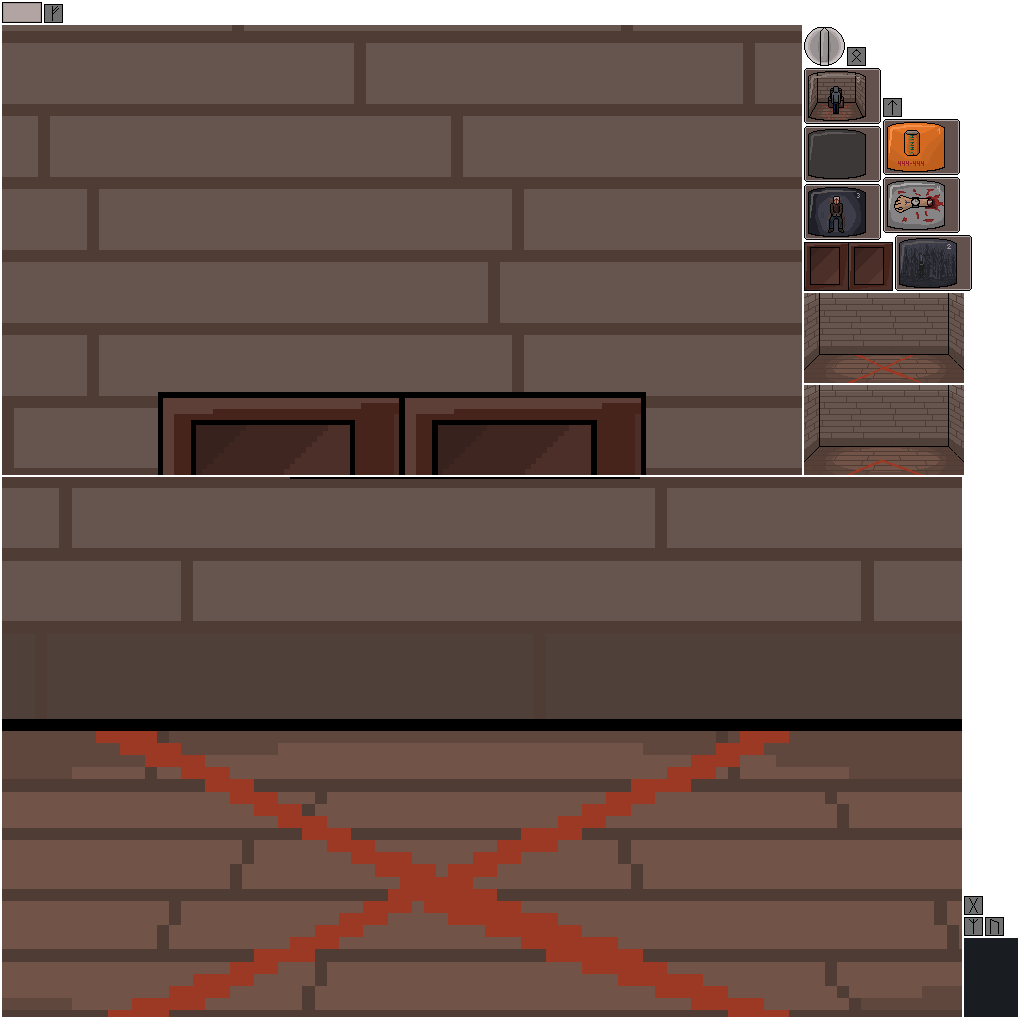
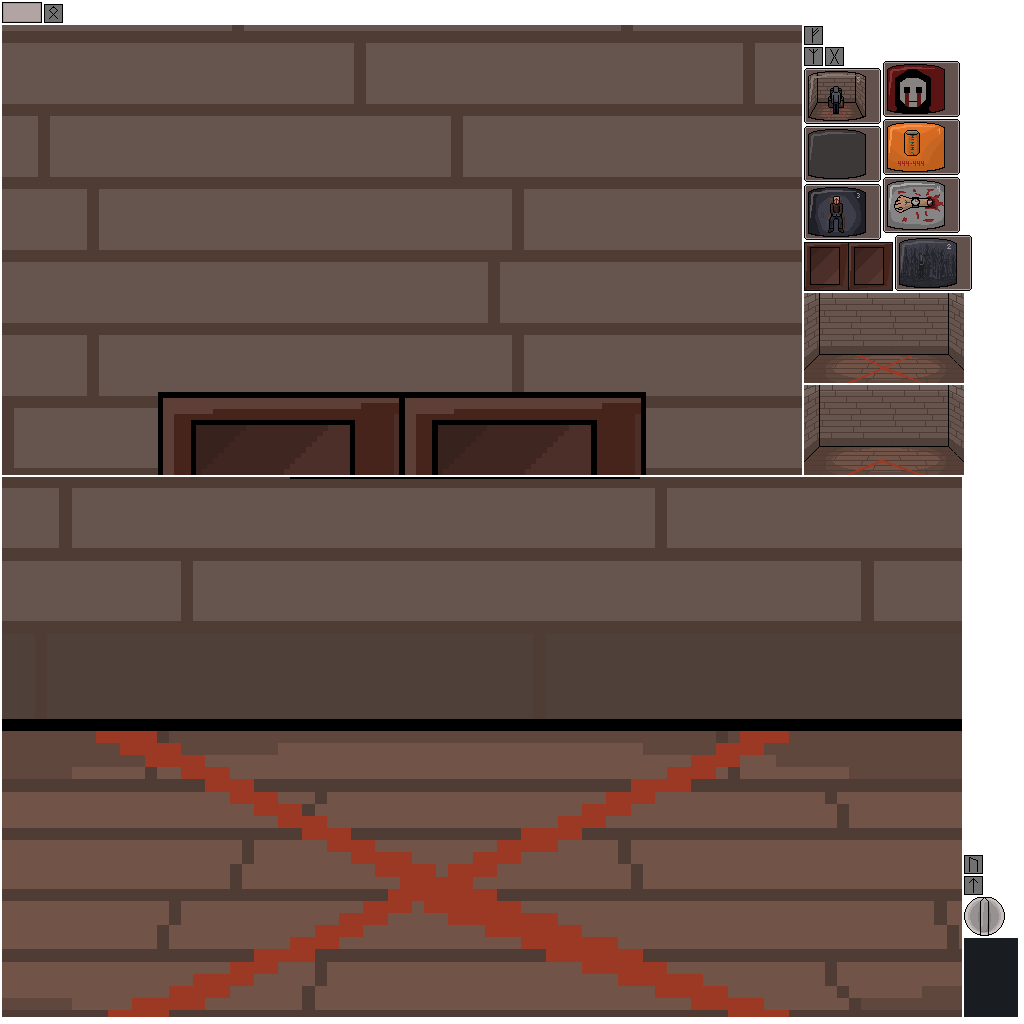
add screamer image on tv

Changed region(s): [[0.8438, 0.0625, 0.9375, 0.125], [0.9375, 0.8125, 1.0, 0.9375], [0.7812, 0.0, 0.8438, 0.0625]]

diff --git a/core/src/main/java/com/elevator_project/second_floor/Tv.java b/core/src/main/java/com/elevator_project/second_floor/Tv.java
@@ -23,6 +23,7 @@ public class Tv extends RoomPart {
 
     private Image tv;
     private Image switchButton;
+    private Image powerButton;
 
     private Sprite[] tvSprites;
 
@@ -47,8 +48,8 @@ public class Tv extends RoomPart {
         final float TV_RESIZE = 160f;
         final float TV_HORIZ = 3.8f;
         final float TV_VERT = 5.5f;
-        tvSprites = new Sprite[5];
-        for (int i = 1; i < 6; i++) {
+        tvSprites = new Sprite[6];
+        for (int i = 1; i < 7; i++) {
             tvSprites[i-1] = atlas.createSprite("TV", i);
         }
         tv = new Image(tvSprites[1]);
@@ -77,6 +78,9 @@ public class Tv extends RoomPart {
 
         switchButton.addListener(new ClickListener() {
             public void clicked(InputEvent event, float x, float y) {
+                if (GameManager.getGameState().isLockerOnSecondFloorQuestSolved()){
+                    return;
+                }
                 switchButton.rotateBy(72);
                 GameManager.getGameState().setChannelIndex(
                     (GameManager.getGameState().getChannelIndex() + 1) % 5
@@ -95,11 +99,14 @@ public class Tv extends RoomPart {
         final float POWER_BUTTON_HORIZ = 1.535f;
         final float POWER_BUTTON_VERT = 3.5f;
 
-        Image powerButton = new Image(atlas.createSprite("TV_PowerButton"));
+        powerButton = new Image(atlas.createSprite("TV_PowerButton"));
         ImageProcessing.process(powerButton, POWER_BUTTON_RESIZE, POWER_BUTTON_HORIZ, POWER_BUTTON_VERT);
 
         powerButton.addListener(new ClickListener() {
             public void clicked(InputEvent event, float x, float y) {
+                if (GameManager.getGameState().isLockerOnSecondFloorQuestSolved()){
+                    return;
+                }
                 GameManager.getGameState().setTvOn(!GameManager.getGameState().isTvOn());
                 tv.setDrawable(new SpriteDrawable(
                     GameManager.getGameState().isTvOn() ?
@@ -141,19 +148,26 @@ public class Tv extends RoomPart {
         Arrays.stream(runes).forEach(Actor::remove);
     }
 
+    public void setScreamerImage(){
+        tv.setDrawable(new SpriteDrawable(tvSprites[5]));
+    }
+
     @Override
     public Group initGroup() {
         switchButton.setRotation(0);
         switchButton.rotateBy((GameManager.getGameState().getChannelIndex()) * 72);
-        tv.setDrawable(new SpriteDrawable(
-            GameManager.getGameState().isTvOn() ?
-                tvSprites[GameManager.getGameState().getChannelIndex()] :
-                atlas.createSprite("TV", 0)
-        ));
+
         elements.forEach(mainGroup::addActor);
         if (!GameManager.getGameState().isLockerOnSecondFloorQuestSolved()) {
+            tv.setDrawable(new SpriteDrawable(
+                GameManager.getGameState().isTvOn() ?
+                    tvSprites[GameManager.getGameState().getChannelIndex()] :
+                    atlas.createSprite("TV", 0)
+            ));
             updateRunesImage();
             Arrays.stream(runes).forEach(mainGroup::addActor);
+        } else {
+            setScreamerImage();
         }
         return mainGroup;
     }

diff --git a/core/src/main/java/com/elevator_project/second_floor/SecondFloorFirstSide.java b/core/src/main/java/com/elevator_project/second_floor/SecondFloorFirstSide.java
@@ -95,8 +95,8 @@ public class SecondFloorFirstSide extends RoomPart {
         final float POWER_BUTTON_HORIZ = 1.72f;
         final float POWER_BUTTON_VERT = 1.65f;
 
-        tvSprites = new Sprite[5];
-        for (int i = 1; i < 6; i++) {
+        tvSprites = new Sprite[6];
+        for (int i = 1; i < 7; i++) {
             tvSprites[i-1] = atlas.createSprite("TV", i);
         }
         tv = new Image(tvSprites[1]);
@@ -120,11 +120,15 @@ public class SecondFloorFirstSide extends RoomPart {
     }
 
     public void updateTvImage() {
-        tv.setDrawable(new SpriteDrawable(
-            GameManager.getGameState().isTvOn() ?
-                tvSprites[GameManager.getGameState().getChannelIndex()] :
-                atlas.createSprite("TV", 0)
-        ));
+        if (GameManager.getGameState().isLockerOnSecondFloorQuestSolved()) {
+            tv.setDrawable(new SpriteDrawable(tvSprites[5]));
+        } else {
+            tv.setDrawable(new SpriteDrawable(
+                GameManager.getGameState().isTvOn() ?
+                    tvSprites[GameManager.getGameState().getChannelIndex()] :
+                    atlas.createSprite("TV", 0)
+            ));
+        }
         switchButton.setRotation(0);
         switchButton.rotateBy((GameManager.getGameState().getChannelIndex()) * 72);
     }

diff --git a/core/src/main/java/com/elevator_project/game/GameState.java b/core/src/main/java/com/elevator_project/game/GameState.java
@@ -30,6 +30,7 @@ public class GameState {
     private boolean tvOn;
     private List<Integer> runesOnSecondFloorLocker;
     private boolean lockerOnSecondFloorQuestSolved;
+    private boolean screamerOnSecondFloorPlayed;
 
     public GameState () {
         elevator = true;
@@ -50,6 +51,7 @@ public class GameState {
             runesOnSecondFloorLocker.add(0);
         }
         lockerOnSecondFloorQuestSolved = false;
+        screamerOnSecondFloorPlayed = false;
 
         floorIndex = 1;
 

diff --git a/core/src/main/java/com/elevator_project/second_floor/SecondFloor.java b/core/src/main/java/com/elevator_project/second_floor/SecondFloor.java
@@ -47,6 +47,8 @@ public class SecondFloor extends Floor {
     public void disposeRuneImagesOnLocker(){
         tv.disposeRunesImage();
         firstSide.disposeRunesImage();
+        tv.setScreamerImage();
+        firstSide.updateTvImage();
     }
 
     @Override
